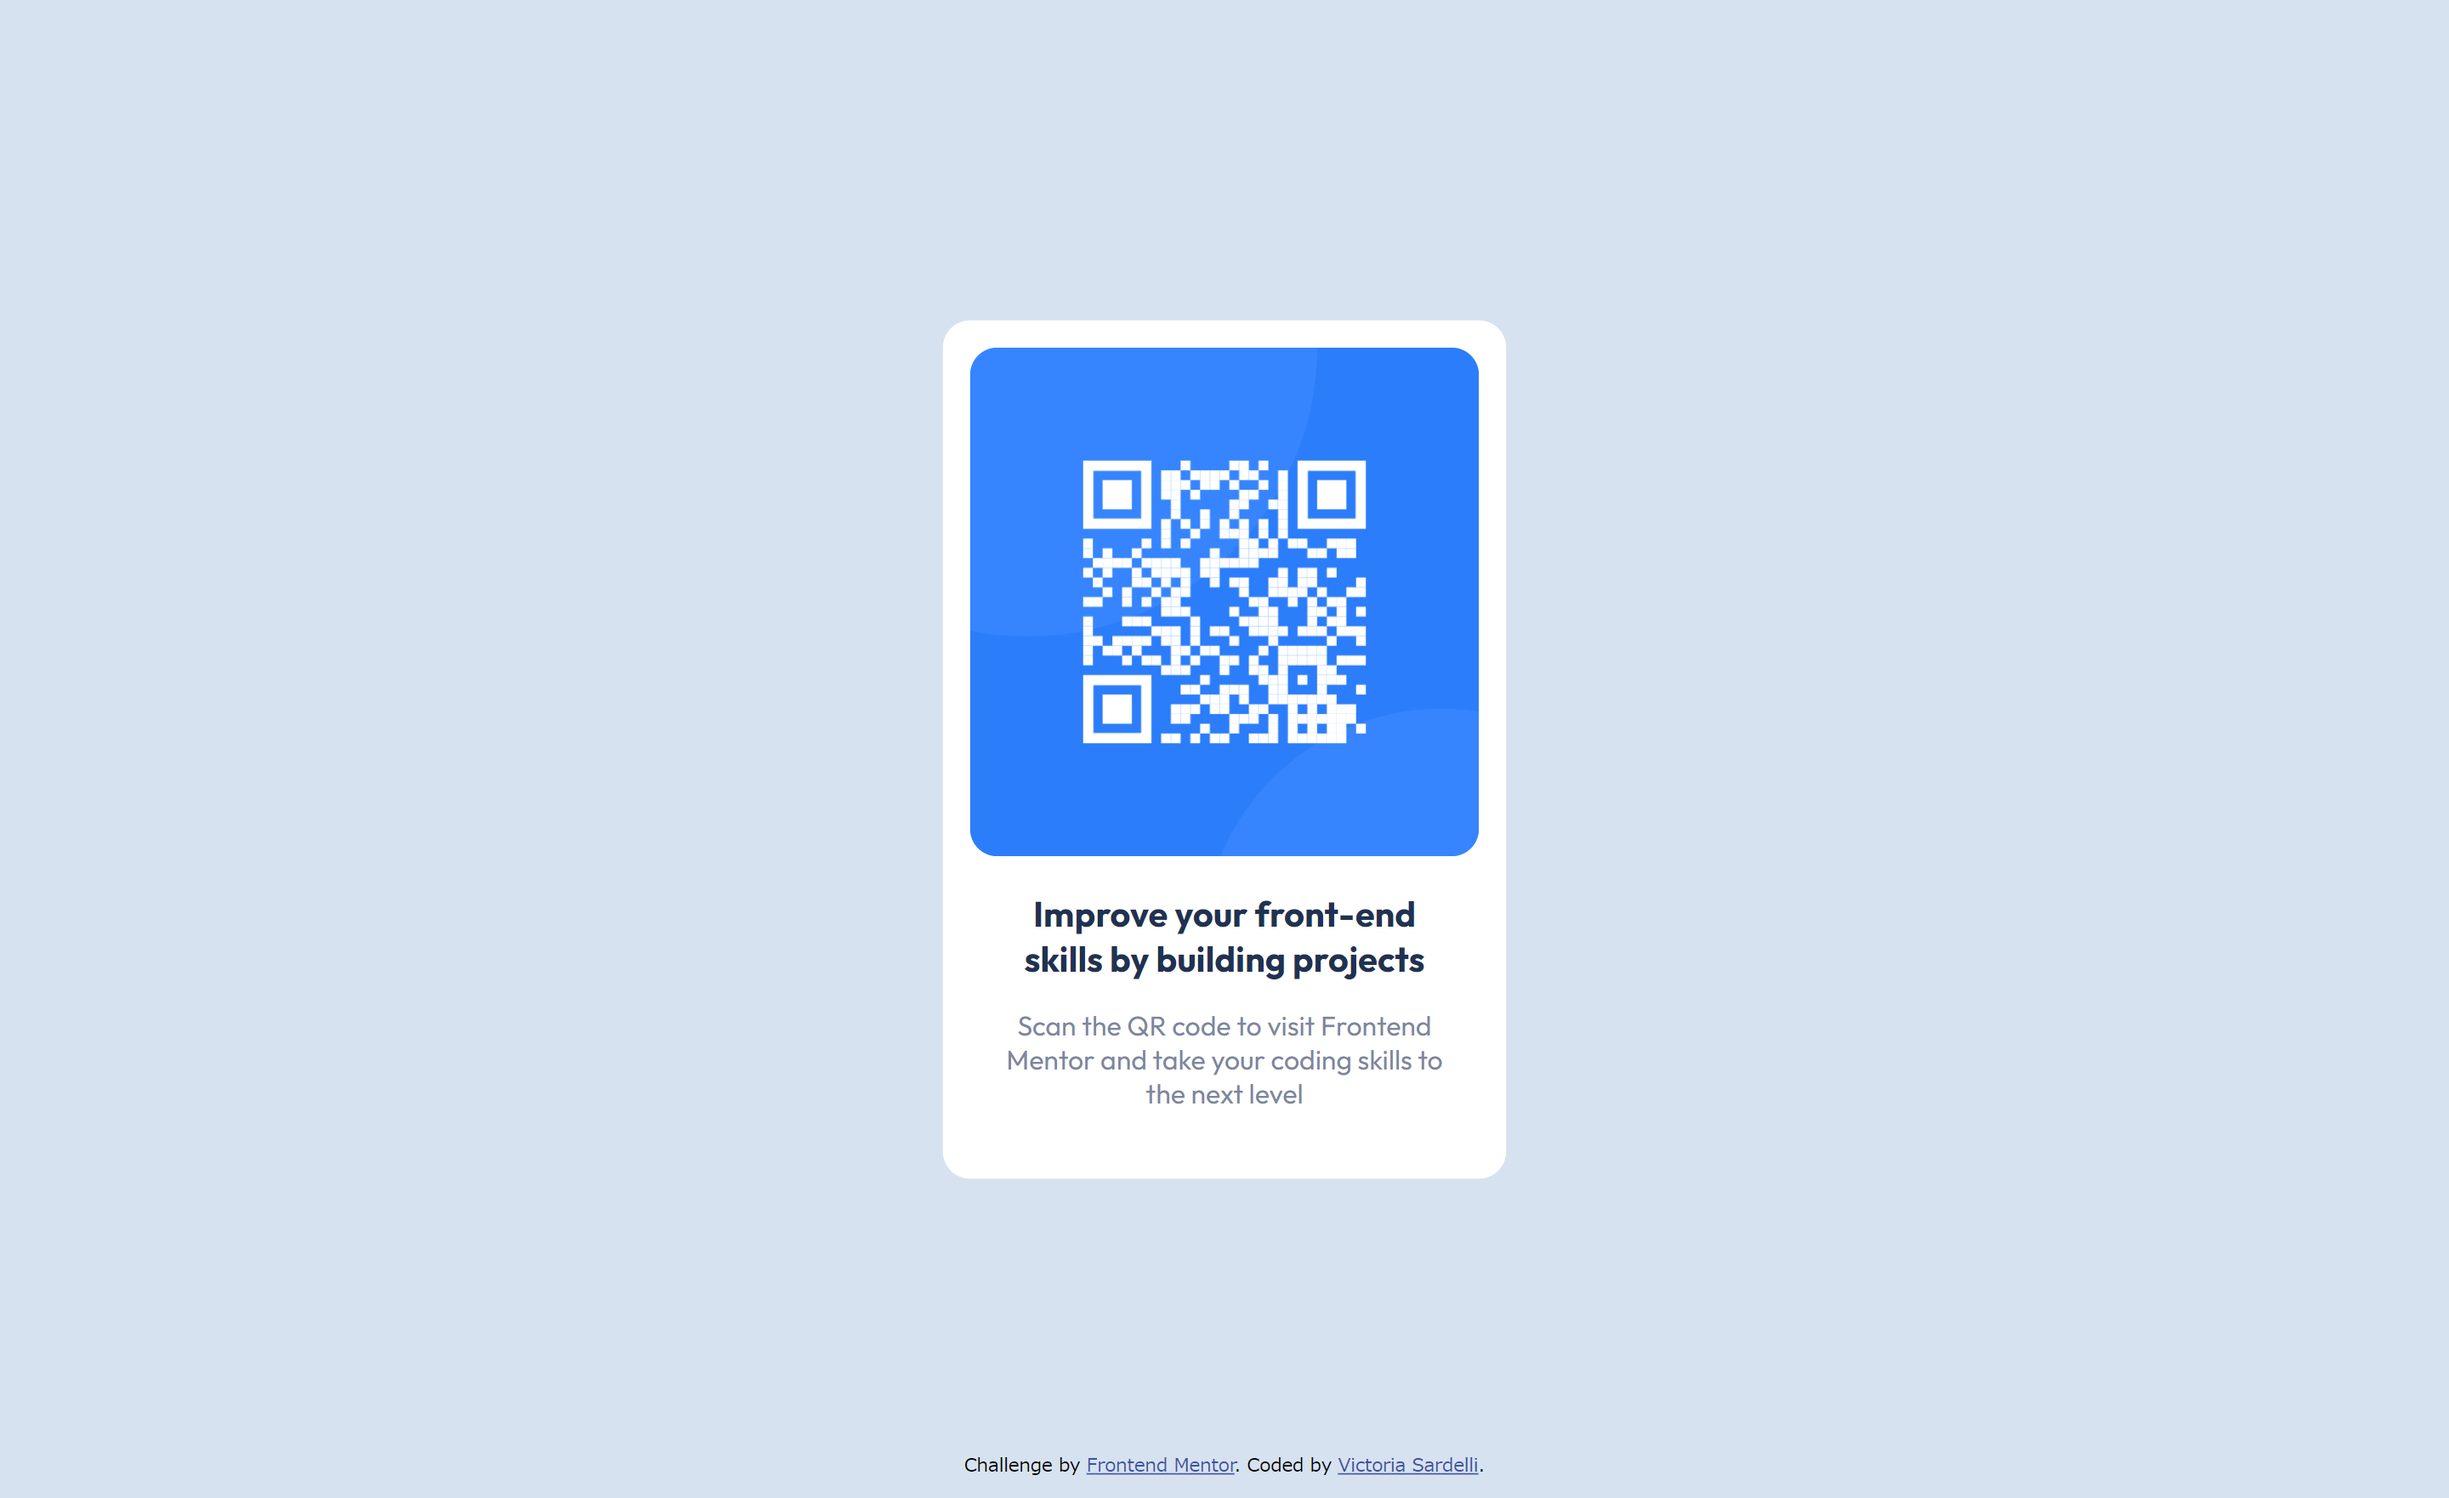
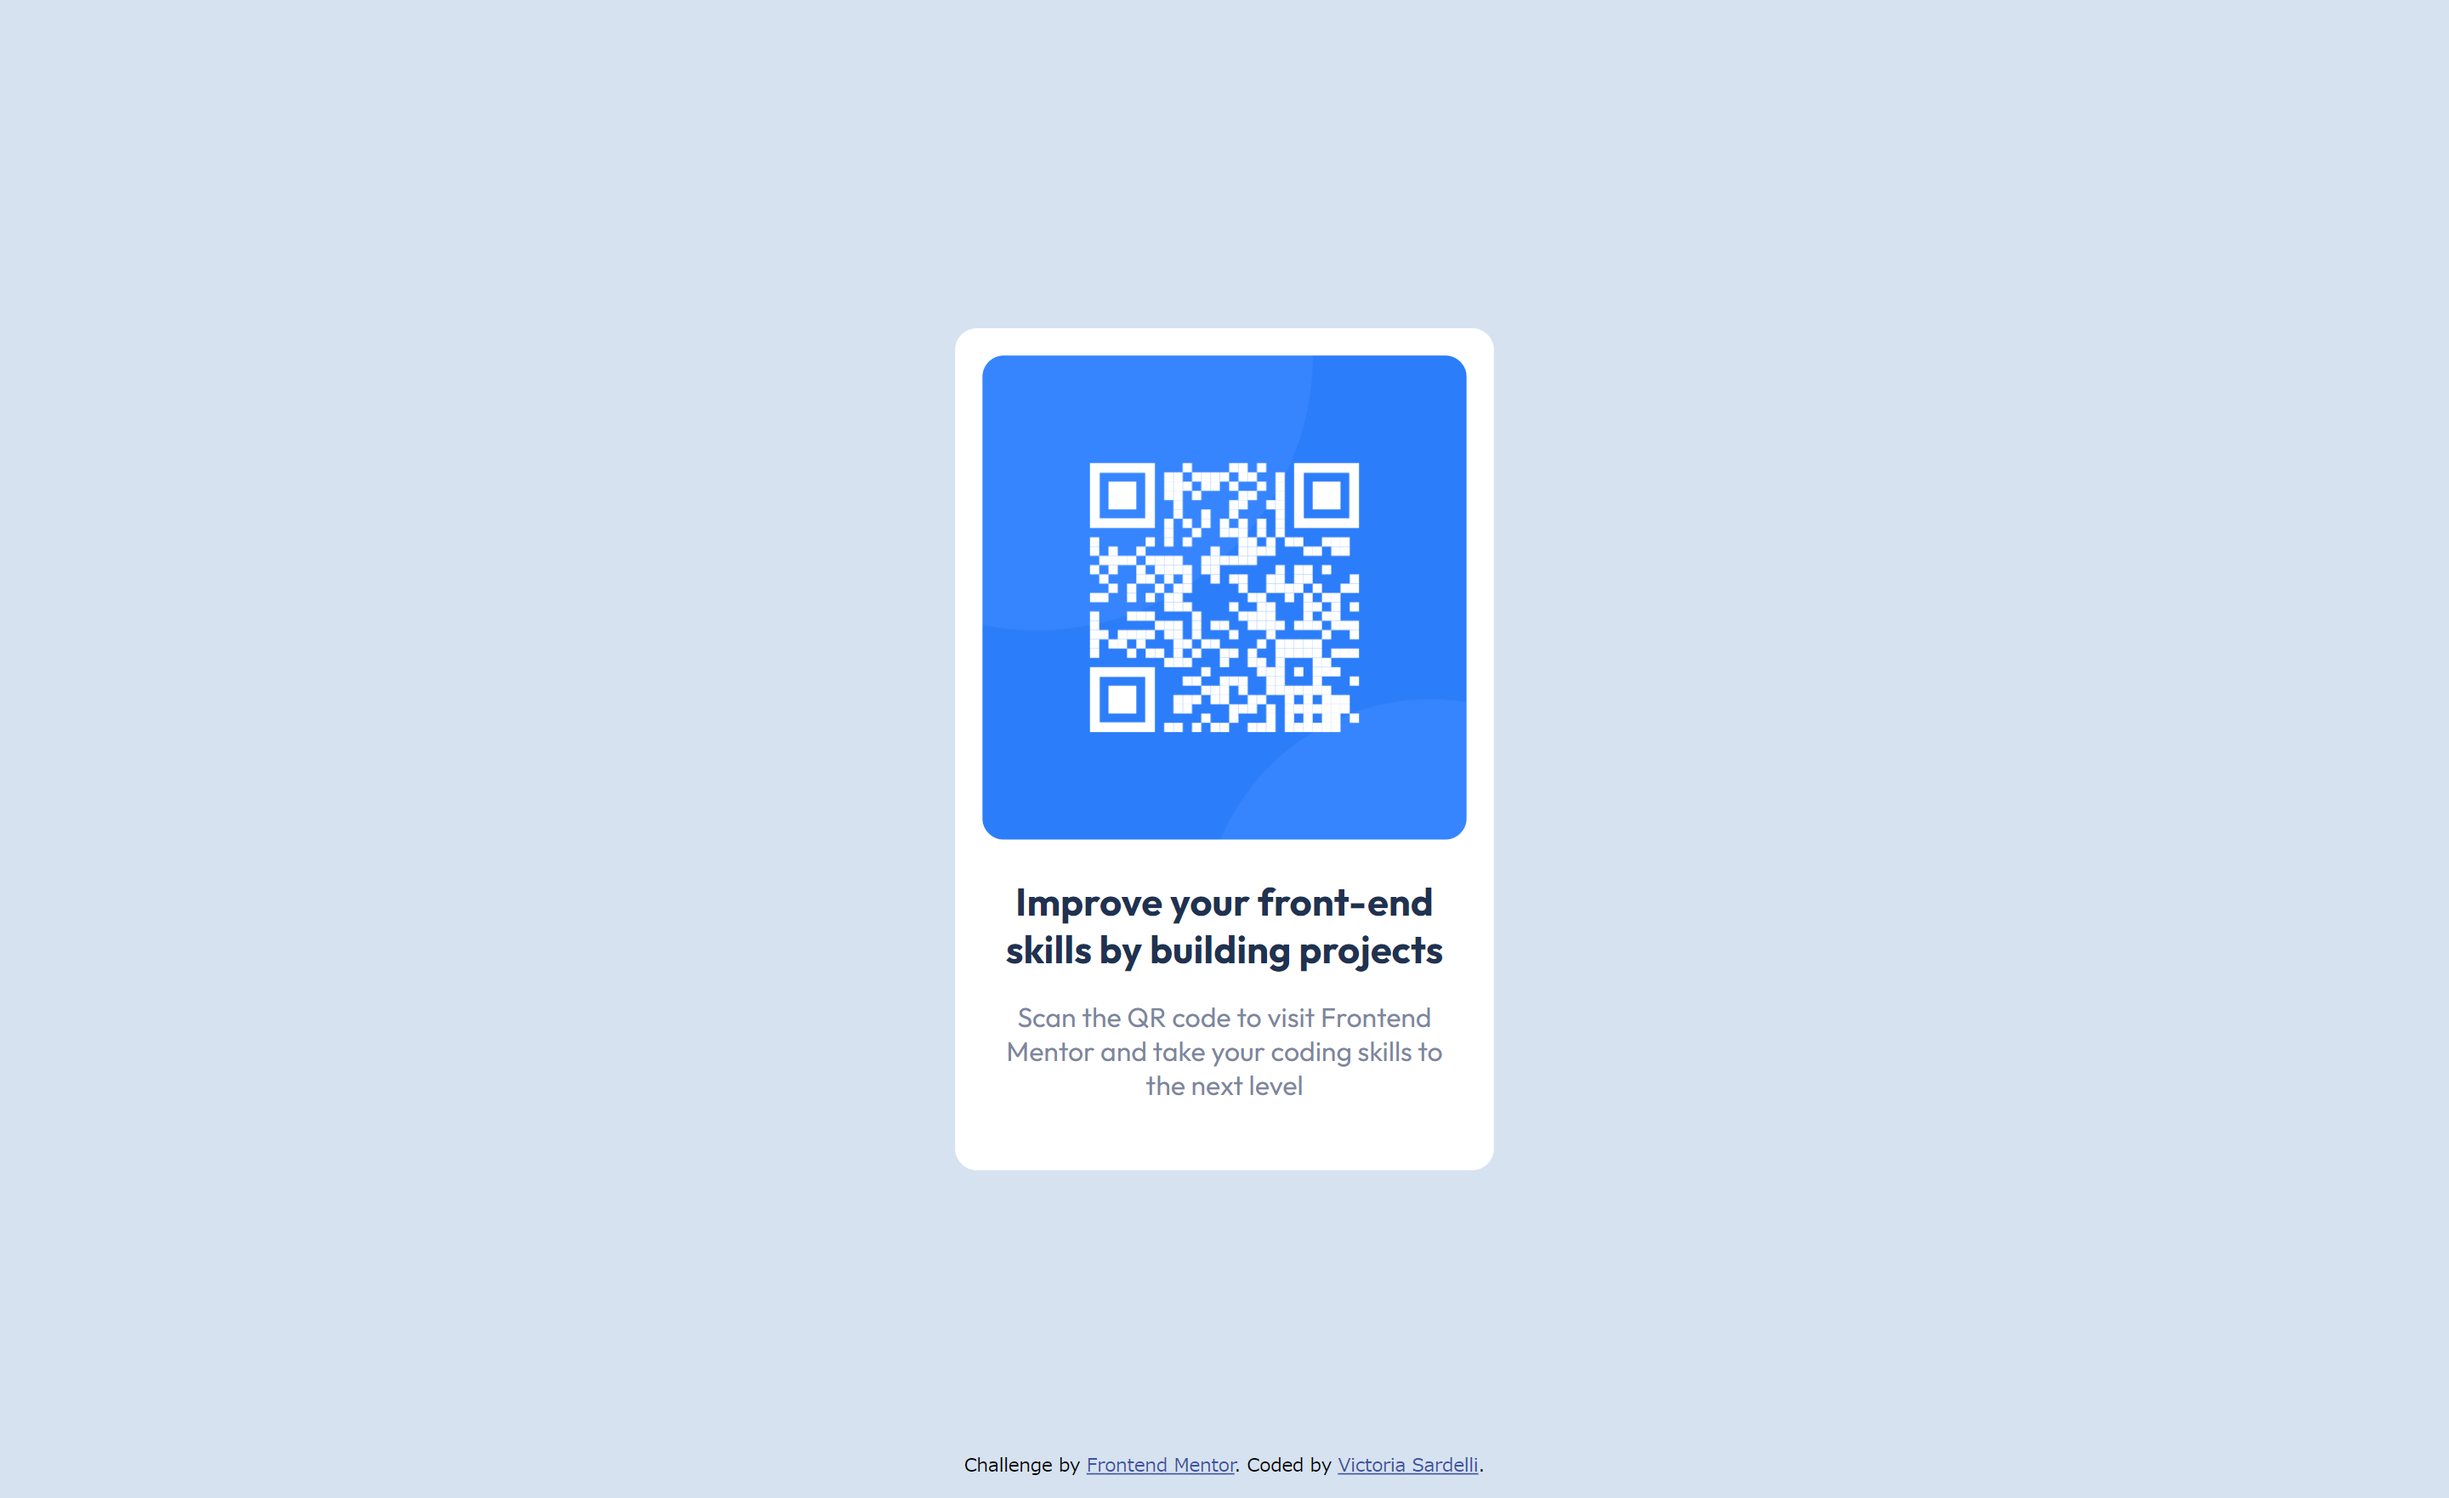
Replaced top p with h1 and updated styles and screenshot

Changed region(s): [[0.375, 0.1873, 0.625, 0.7804], [0.4375, 0.3121, 0.5625, 0.4994], [0.4062, 0.7804, 0.5938, 0.8116]]

diff --git a/styles.css b/styles.css
@@ -22,7 +22,7 @@ body {
 
 @media screen and (min-width: 1025px) {
     #center-content {
-        width: 23vw;
+        width: 22vw;
     }
 }
 
@@ -49,24 +49,29 @@ body {
 
 #center-content,
 img {
-    border-radius: 1em; /* round edges */
+    border-radius: 0.8em; /* round edges */
 }
 
 #center-content * {
     max-width: 100%;
 }
 
+p,
+h1 {
+    font-family: 'Outfit', sans-serif;
+}
+
 p {
     margin: 1em 0.8em 0 0.8em;
     font-size: 1em;
     font-weight: 400;
-    font-family: 'Outfit', sans-serif;
     color: hsl(220, 15%, 55%); /*grayish blue  */
 }
 
-#slogan {
+h1 {
+    margin: 1em 0.23em 0 0.23em; 
     font-weight: 700;
-    font-size: 1.3em;
+    font-size: 1.42em;
     color:hsl(218, 44%, 22%) /* dark blue*/
 }
 

diff --git a/index.html b/index.html
@@ -16,7 +16,7 @@
   <main>
     <div id="center-content">
       <img src="images/image-qr-code.png" alt="qr code">
-      <p id="slogan">Improve your front-end skills by building projects</p>
+      <h1>Improve your front-end skills by building projects</h1>
       <p>Scan the QR code to visit Frontend Mentor and take your coding skills to the next level</p>
     </div>
   </main>
